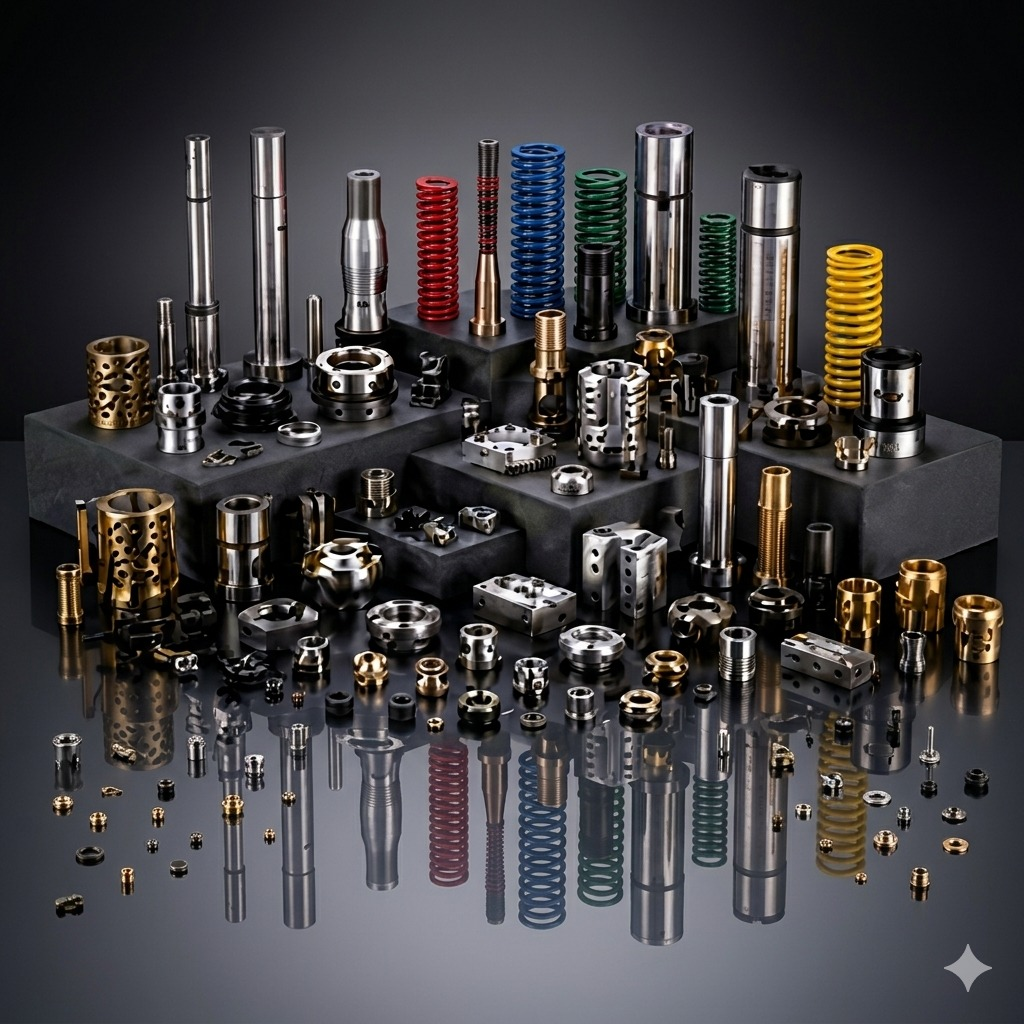
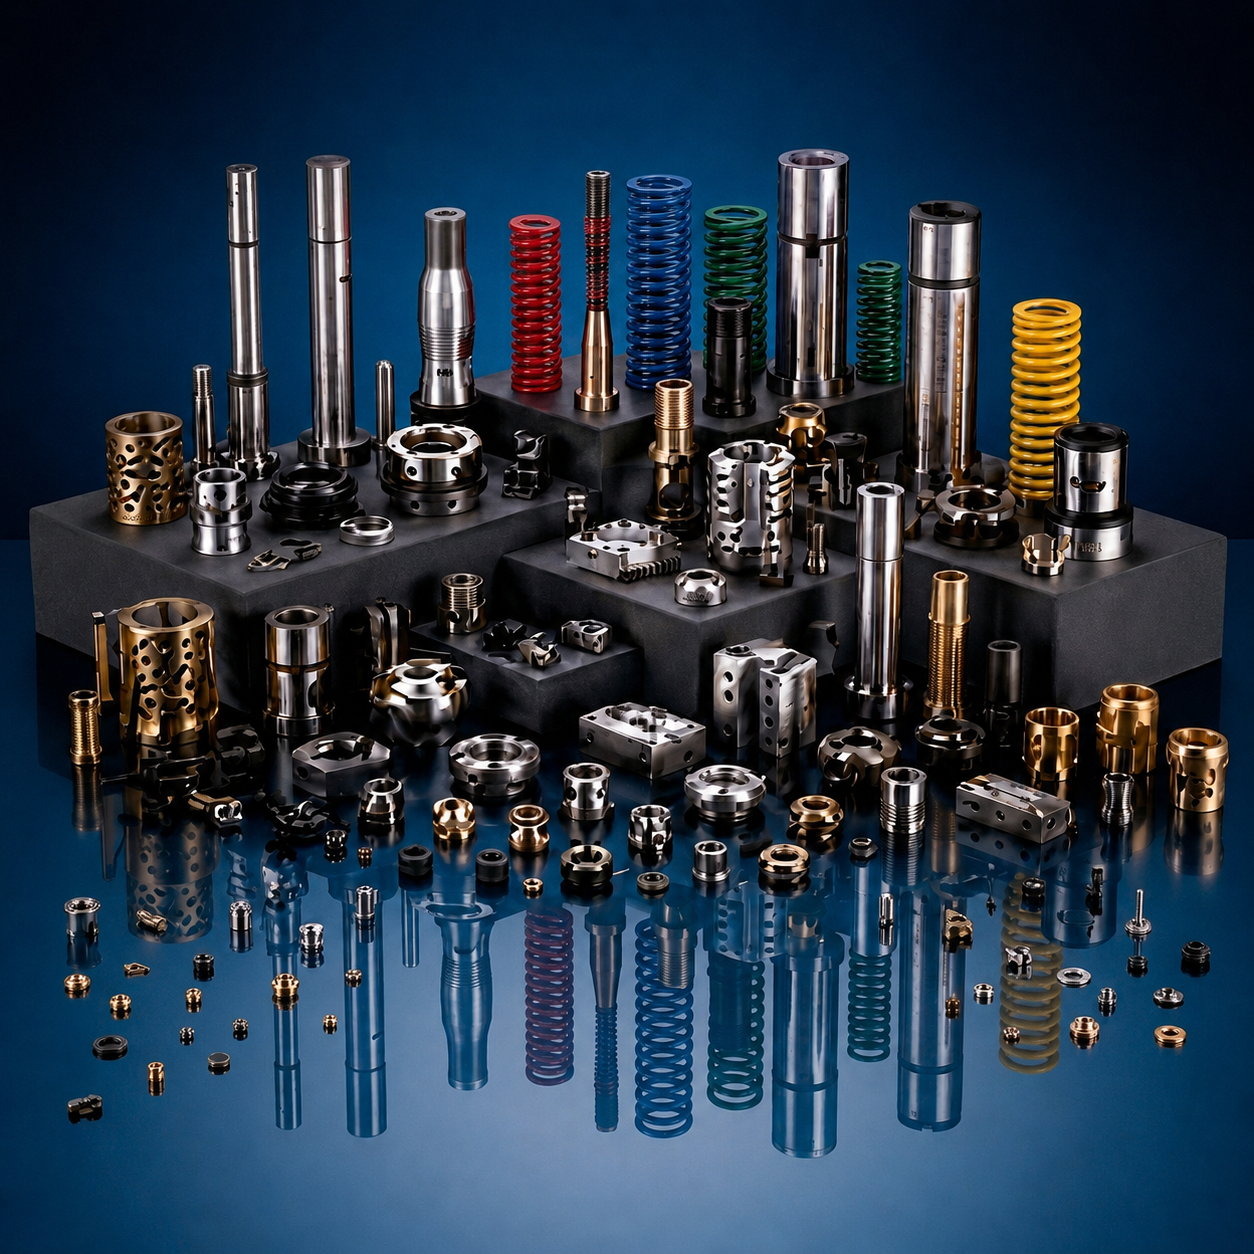
Update About Us and Services images; add Upcoming-Concepts background styling

diff --git a/css/style.css b/css/style.css
@@ -282,8 +282,24 @@ ul { list-style:none; }
 .service-card p { color:rgba(255,255,255,.8); line-height:1.7; font-size:.95rem; }
 
 /* ── Concepts ──────────────────────────── */
-.concepts { background:var(--light-bg); }
-.concepts-intro { text-align:center; max-width:700px; margin:0 auto 50px; padding:30px; background:var(--white); border-radius:var(--radius); box-shadow:var(--shadow); }
+.concepts { background:var(--light-bg); position:relative; overflow:hidden; }
+.concepts::before {
+    content: '';
+    position: absolute;
+    inset: 0;
+    background: url("../photos/Upcoming-Concepts.jpg") center center / cover no-repeat;
+    opacity: 0.11;
+    pointer-events: none;
+    z-index: 0;
+}
+.concepts::after {
+    content: '';
+    position: absolute;
+    inset: 0;
+    background: rgba(255,255,255,0.72);
+    z-index: 0;
+}
+.concepts-intro { text-align:center; max-width:700px; margin:0 auto 50px; padding:30px; background:var(--white); border-radius:var(--radius); box-shadow:var(--shadow); position: relative; z-index: 1; }
 .concepts-intro i { font-size:2.5rem; color:var(--accent-gold); margin-bottom:16px; }
 .concepts-intro p { color:var(--text-light); line-height:1.8; }
 .concepts-intro p strong { color:var(--dark); font-size:1.1rem; display:block; margin-bottom:8px; }

diff --git a/index.html b/index.html
@@ -105,7 +105,7 @@
             </div>
             <div class="about-grid">
                 <div class="about-image">
-                    <img src="photos/products.jpg" alt="Industrial Products">
+                    <img src="photos/about-banner.jpg" alt="About Painpoint Solution">
                     <div class="about-experience">
                         <span class="exp-number">10+</span>
                         <span class="exp-text">Years of<br>Excellence</span>
@@ -338,7 +338,7 @@
     ═══════════════════════════════════════════════ -->
     <section class="section services" id="services">
         <div class="services-bg">
-            <img src="photos/about-banner.jpg" alt="Painpoint Solution Team">
+            <img src="photos/products.jpg" alt="Painpoint Solution Services">
         </div>
         <div class="services-overlay"></div>
         <div class="container">